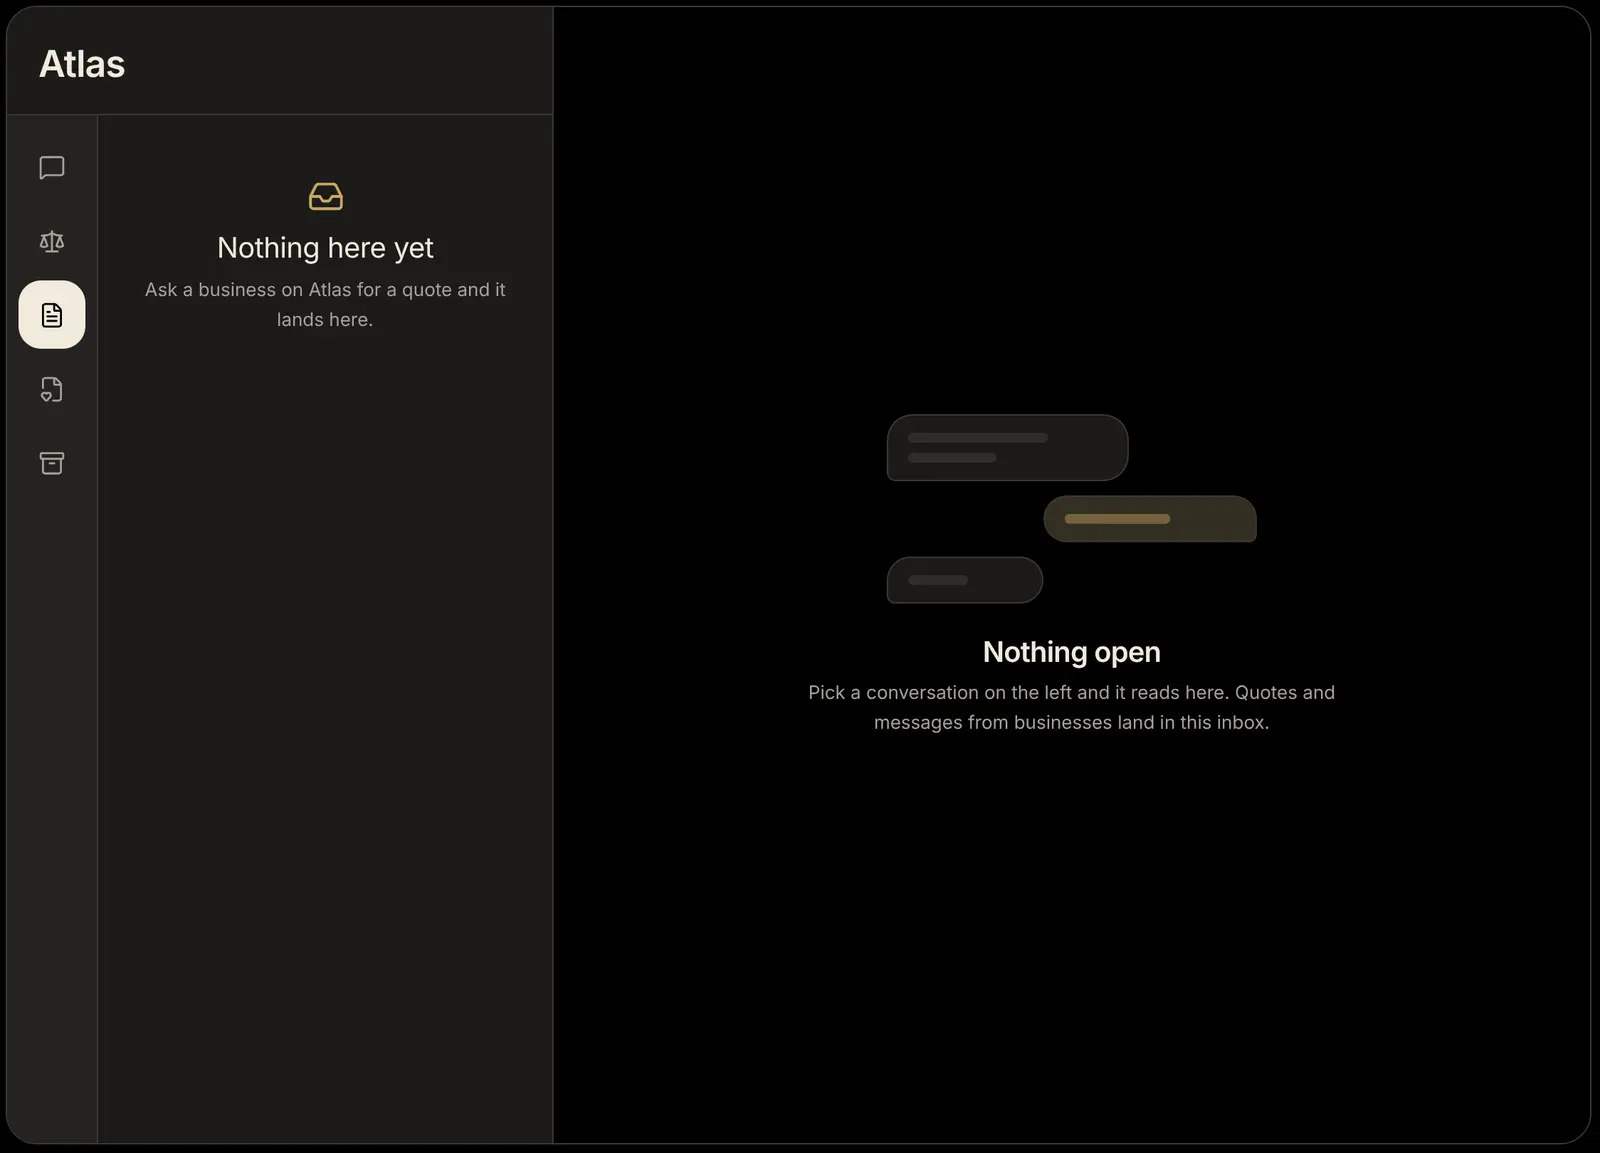
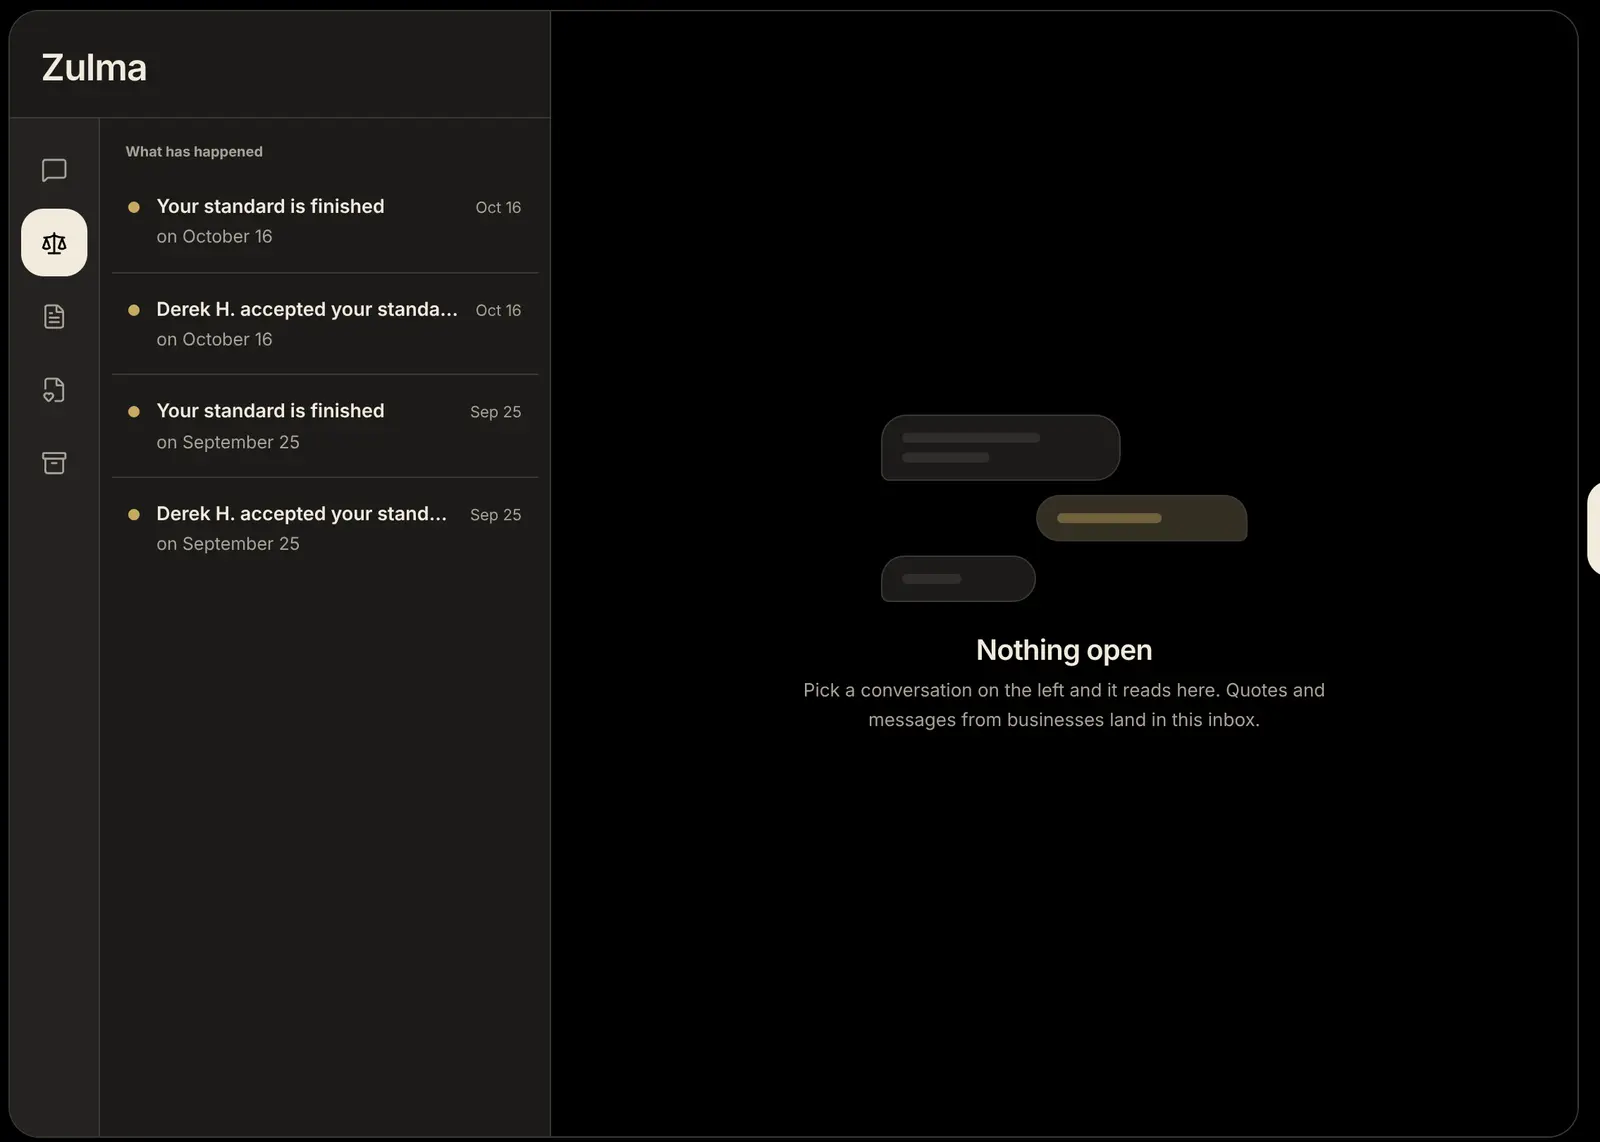
Help center: real quote form and inbox shots, phone-friendly tables, role table fits, cut repeated lines
- Request a quote: shot of the request form; voice notes, Make public and Also send to 3 more nearby
- Inbox overview shot shows real notes, not an empty inbox
- Zu law card shot no longer cut off
- Zulma+ summaries no longer render the price as maths
- Share your home: role table rewritten so it fits the column
- Tables fit phone screens instead of scrolling sideways
- Owners, co-owners and helpers named instead of 'editor'
- Account pages: lines that repeated the summary cut, guide tiles balanced
- llms.txt rebuilt

Claude-Session: https://claude.ai/code/session_01NGgEQuyqP1PxHf47ize73t

diff --git a/style.css b/style.css
@@ -281,3 +281,10 @@ html[data-current-path="/"] .mdx-content {
     padding-right: 2rem !important;
   }
 }
+
+/* phones: tables fit the screen instead of scrolling sideways (Mintlify gives every cell 150px) */
+@media (max-width: 639px) {
+  .mdx-content table td { min-width: 0 !important; }
+  .mdx-content table th, .mdx-content table td { padding-left: 0.5rem; padding-right: 0.5rem; }
+  .mdx-content table th:first-child, .mdx-content table td:first-child { padding-left: 0; }
+}
